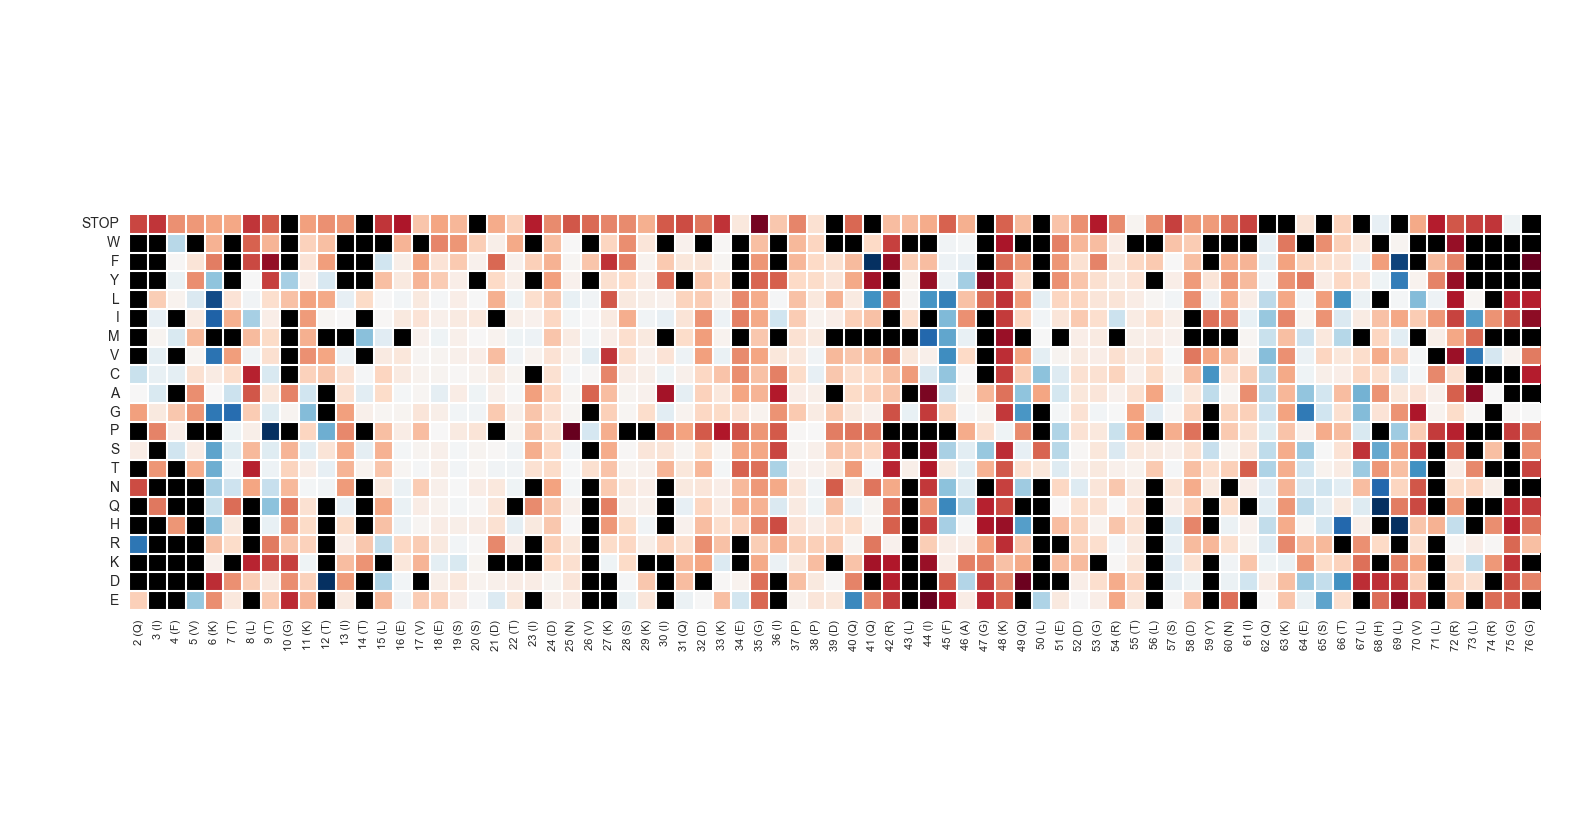
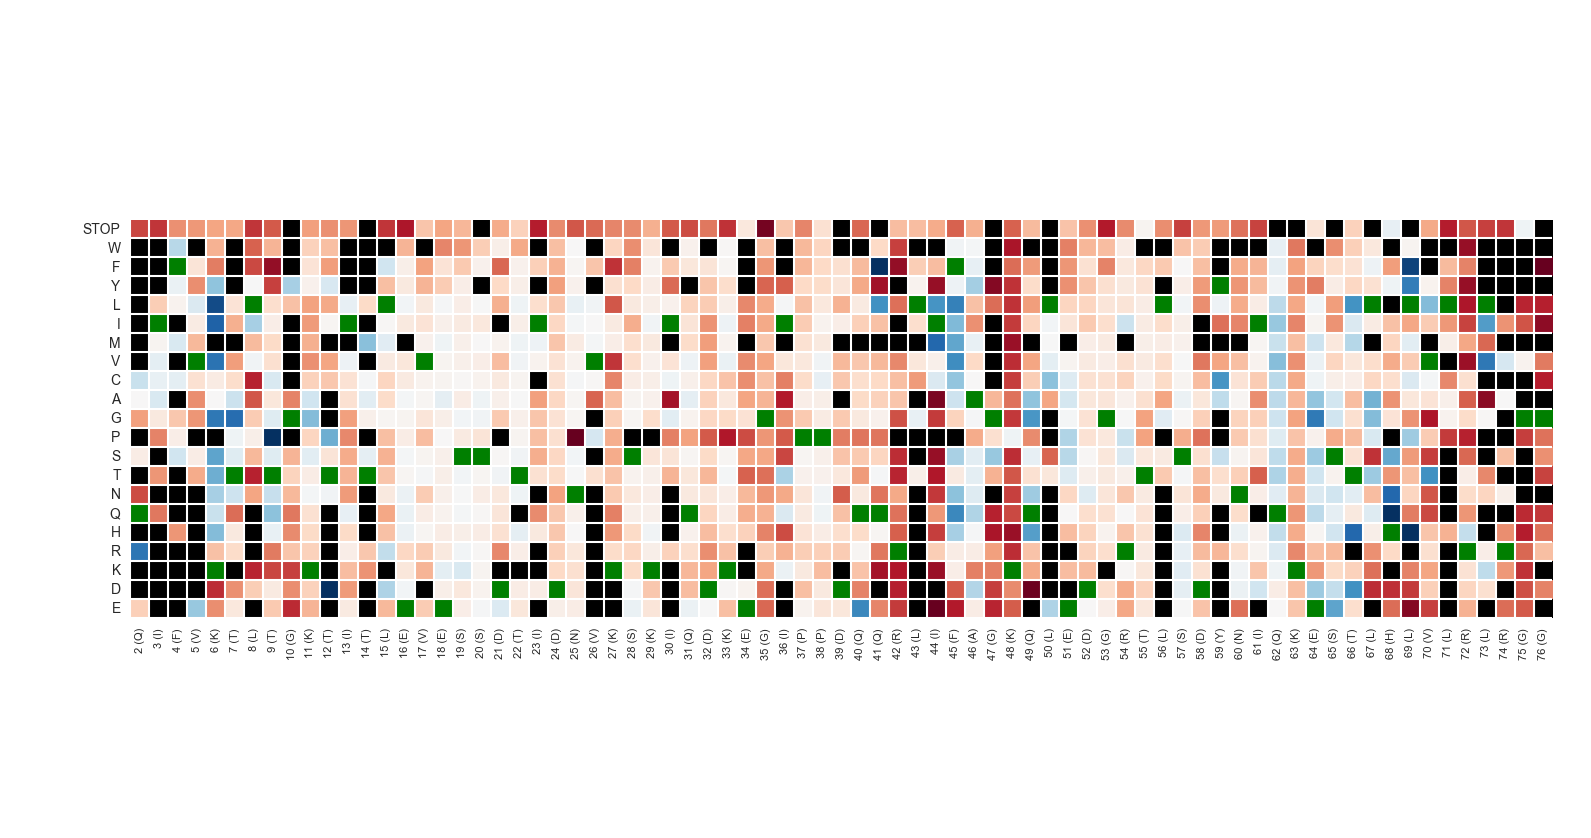
Added one more heat map

diff --git a/fitness_scores/jupyter/plot_scores.py b/fitness_scores/jupyter/plot_scores.py
@@ -10,9 +10,10 @@ import plot_heatmap_updated
 
 AMINOTONUMBER_DATA = pickle.load(open('./input_output_files/input/aminotonumber.pkl', 'rb'))
 scriptname, replicate = sys.argv
-file_name_filtered = './input_output_files/output/' + replicate + '_filtered_AA_scores_20'
+# file_name_filtered = './input_output_files/output/' + replicate + '_filtered_AA_scores_20'
 # file_name_unfiltered = './input_output_files/output/' + replicate + '_full_data.pkl'
 # file_name_filtered = '../../kevin_scripts_final/weighed_avg_fitness_difference_dict.pkl'
+file_name_filtered = '../../kevin_scripts_final/weighed_avg_r1_r2_full_data.pkl'
 # file_name_filtered = './input_output_files/output/r2_full_data.pkl'
 
 

diff --git a/fitness_scores/jupyter/plot_heatmap_updated.py b/fitness_scores/jupyter/plot_heatmap_updated.py
@@ -109,8 +109,8 @@ def plot_scores(AA_scores):
     for (loc, AA) in AA_scores:
         print loc, AA
         if AA != 'WT' and loc > 1 and loc < 77:
-            scores[int(AMINOTONUMBER_DATA[AA]), int(loc - 2)] = AA_scores[(loc, AA)]['score']
-            # scores[int(AMINOTONUMBER_DATA[AA]), int(loc - 2)] = AA_scores[(loc, AA)]
+            # scores[int(AMINOTONUMBER_DATA[AA]), int(loc - 2)] = AA_scores[(loc, AA)]['score']
+            scores[int(AMINOTONUMBER_DATA[AA]), int(loc - 2)] = AA_scores[(loc, AA)]
             locs.append(loc)
 
     loc_labels = sorted(set(locs))
